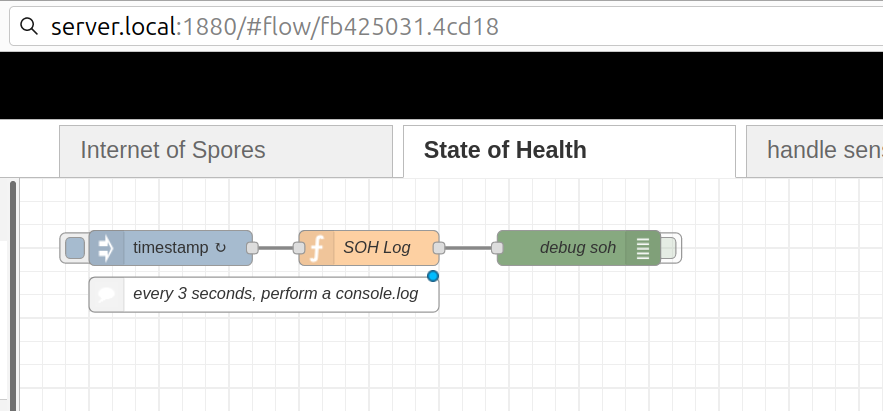
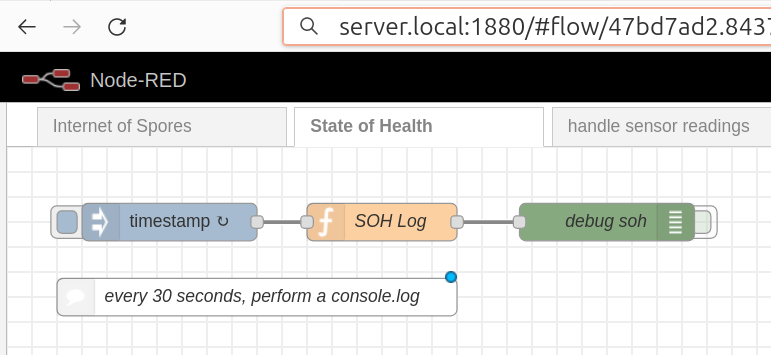
doc: Add detail for the config update and SOH flows to the detailed design

diff --git a/doc/server_design_detail.md b/doc/server_design_detail.md
@@ -157,7 +157,7 @@ sensor node to retransmit the measurement, so we send an "OK,old" response.
 When the msg is transferred to this sub-flow, the filename is extracted from the
 payload argument and used to find the matching firmware image in the "firmware"
 directory.  
-If the image fle is found, its md5 hash will be calculated and the update
+If the image file is found, its md5 hash will be calculated and the update
 package (length, md5, data) transmitted in the response.
 
 **parse update**
@@ -185,29 +185,80 @@ content of the file:
 > a simple IO Stream with the file data only.  
 > Additional framing would disturb the md5 checksum calculation.
 
-**null-terminate**
-
-This function simply appends a "\0" character to the end of the response
-message.
-
 **process error**
 
 This function provides a TCP response of "0\n" for any error (except errors that
 it triggered with its own response). 
 
+**null-terminate**
+
+This function simply appends a "\0" character to the end of the response
+message.
 
 #### Update Config
 
 ![Flow Screenshot](screenshots/flows_detail_update_config.png)
 
+> 🪧 Note: this flow depends on the additional plugin modules:
+> * [node-red-contrib-readdir](https://flows.nodered.org/node/node-red-contrib-readdir)
+> * [node-red-contrib-md5](https://flows.nodered.org/node/node-red-contrib-md5)
 
-(TODO: configuration options, flow charts, fault tolerance, notes, dependencies-influx,md5,readdir)
+When the msg is transferred to this sub-flow, the filename is extracted from the
+payload argument and used to find the matching configuration file in the
+"sensor-cfg" directory.  
+Depending on whether the command is "get_config" or "delete_config", the file
+will be returned to the sensor node or deleted, respectively.
+
+**parse get_config**
+
+![parse update flow chart](drawio/serversw_detail_parse_get_config_flow_chart.png)
+
+This function searches the list of files provided by the "firmware-cfg dir" node
+to find any that match the node name and filename provided. For example, the
+configuration update files might be in organized in subdirectories by node name
+(sensor-cfg/node_name/cfg_file), but other schemes are possible
+(sensor-cfg/node_name-cfg_file).
+
+**transmit update**
+
+This function crafts a response octet-string by concatenating the metadata and
+content of the file:
+* file length
+* "\n"
+* md5sum
+* "\n"
+* file data
+
+**send empty response**
+
+This function provides a TCP response of "\n" if no matching file was found.
+
+**abort upload**
+
+This function provides a TCP response of "0\n" for any error (except errors that
+it triggered with its own response). 
+
+**null-terminate**
+
+This function simply appends a "\0" character to the end of the response
+message.
 
 #### State of Health
 
 ![Flow Screenshot](screenshots/flows_detail_soh.png)
 
+This flow executes asynchronously every 30 seconds (starting 3 seconds after the
+flows are started).
+
+**SOH Log**
+
+This function performs a console.log of the string "@SOH report@" + the
+timestamp.
+
 ### Node-red SOH Monitor
+
+(TODO: configuration options, flow charts, fault tolerance, notes, dependencies)
+
 
 ---
 
